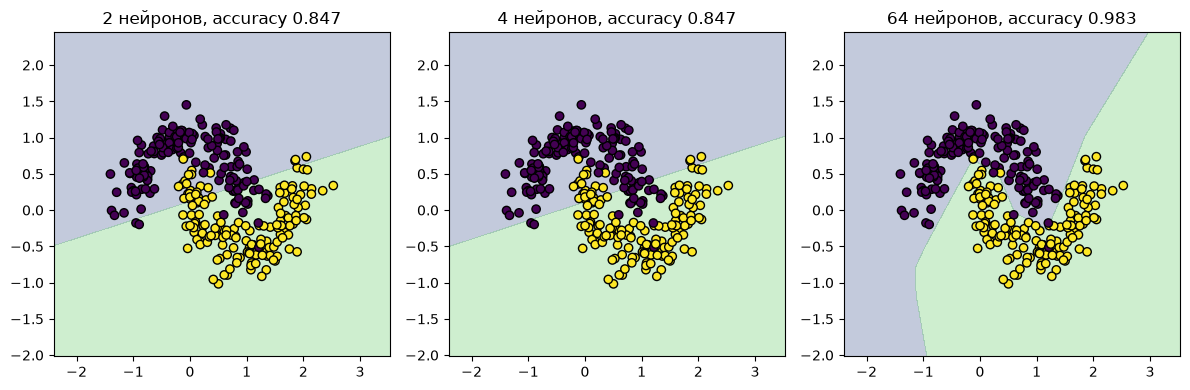
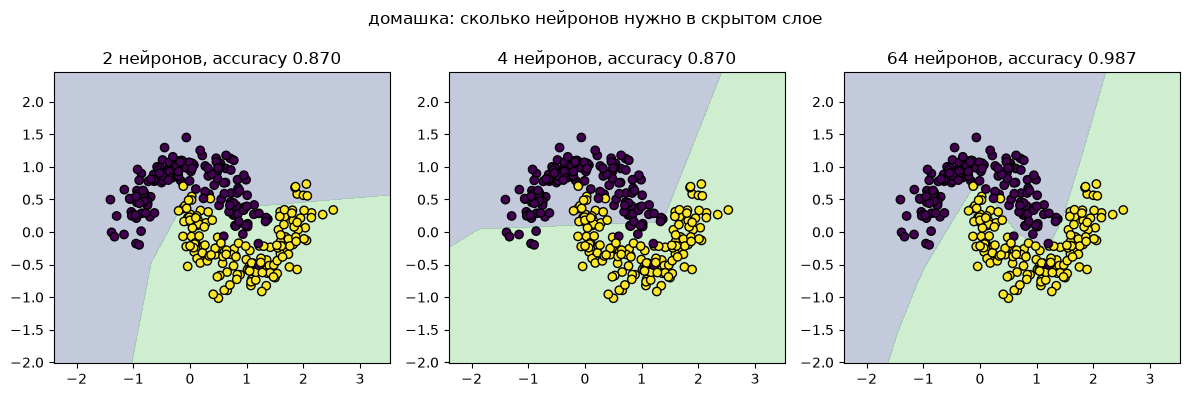
Лаба 8: заголовки у графиков оптимизаторов и домашних размеров скрытого слоя

diff --git a/lab_08/torch_neuron.py b/lab_08/torch_neuron.py
@@ -57,6 +57,7 @@ def train(make_opt, steps=300):
         opt.zero_grad(); l = loss_fn(m(Xt).squeeze(1), yt); l.backward(); opt.step(); h.append(l.item())
     return h
 
+plt.title('скорость сходимости: SGD, SGD+momentum, Adam')
 plt.plot(train(lambda p: torch.optim.SGD(p, lr=0.1)), label='SGD')
 plt.plot(train(lambda p: torch.optim.SGD(p, lr=0.1, momentum=0.9)), label='SGD+momentum')
 plt.plot(train(lambda p: torch.optim.Adam(p, lr=0.01)), label='Adam')
@@ -93,4 +94,5 @@ for ax, h in zip(axes, sizes):
     ax.contourf(xx, yy, zz, levels=[-1e9, 0, 1e9], alpha=.3); ax.scatter(Xm[:,0], Xm[:,1], c=ym, edgecolor='k')
     ax.set_title(f'{h} нейронов, accuracy {acc:.3f}')
     print(f'{h} нейронов: accuracy {acc:.3f}')
+fig.suptitle('домашка: сколько нейронов нужно в скрытом слое')
 plt.tight_layout(); plt.savefig(HERE / 'hidden_sizes.png', bbox_inches='tight'); plt.show()
